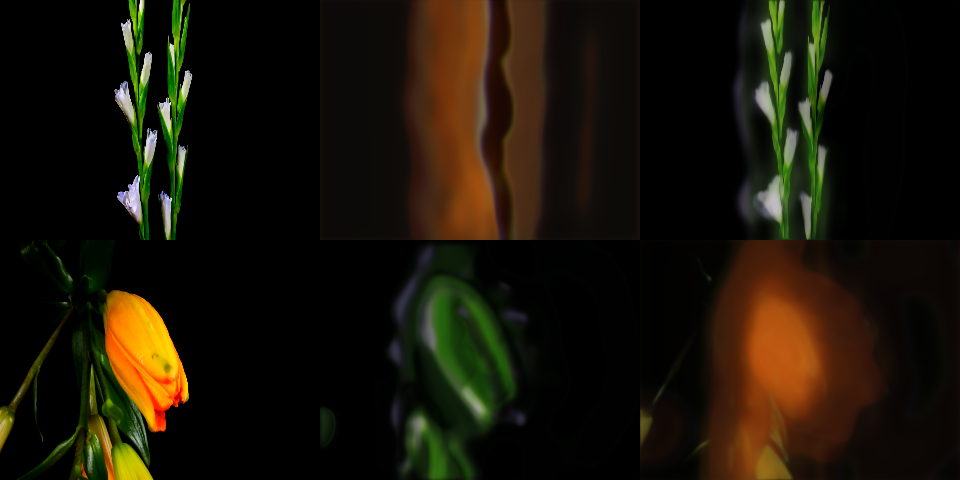
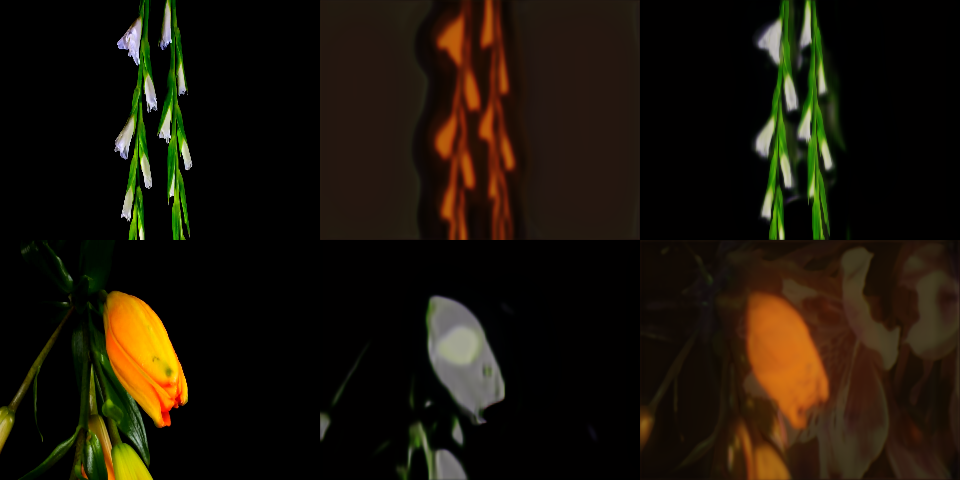
revise the issue that the gradient cannot propogate to the previous generator, and obtain the successful result in the simple example

diff --git a/lib/model/recycle_gan.py b/lib/model/recycle_gan.py
@@ -223,27 +223,34 @@ class ReCycleGAN(nn.Module):
         self.loss_D = 0.0
         self.loss_G = 0.0
 
-        # Generate fake_tuple in opposite domain
-        fake_b_frame_list = []
-        fake_a_frame_list = []
-        for i in range(self.T):
-            fake_b_frame_list.append(self.G_A_to_B(true_a_frame_list[i]))
-            fake_a_frame_list.append(self.G_B_to_A(true_b_frame_list[i]))
-
-        # ==================== Accumulate loss by each time step ====================
+        # ==================== Accumulate loss by each time step ====================================
+        # In the previous version, the fake frame in T time sequence will compute first,
+        # Furthermore, in order to utilize the tensor time by time, the new tensor object is created
+        # However, this coding idea cannot propogate the gradient into the previous generator
+        # As the result, we generate the fake image time by time!
+        # ===========================================================================================
         for i in range(self.t, self.T):
 
-            # generator and predictor
-            true_a_tuple = torch.cat(true_a_frame_list[i - self.t: i], dim = 1).detach()
-            fake_b_tuple = torch.cat(fake_b_frame_list[i - self.t: i], dim = 1).detach()
-            true_b_tuple = torch.cat(true_b_frame_list[i - self.t: i], dim = 1).detach()
-            fake_a_tuple = torch.cat(fake_a_frame_list[i - self.t: i], dim = 1).detach()
+            # Generate fake frames in opposite domain for single time step
+            fake_b_frame_list = []
+            fake_a_frame_list = []
+            for j in range(self.t + 1): # include the current frame
+                fake_b_frame_list.append(self.G_A_to_B(true_a_frame_list[i + j - self.t]))
+                fake_a_frame_list.append(self.G_B_to_A(true_b_frame_list[i + j - self.t]))
+
+            # Form the tuple object
+            true_a_tuple = torch.cat(true_a_frame_list[i - self.t: i], dim = 1)
+            true_b_tuple = torch.cat(true_b_frame_list[i - self.t: i], dim = 1)
+            fake_a_tuple = torch.cat(fake_a_frame_list[:-1], dim = 1) # exclude the current frame
+            fake_b_tuple = torch.cat(fake_b_frame_list[:-1], dim = 1) # exclude the current frame
+
+            # Accumulate the loss of generator and predictor
             self.loss_G += self.updateGenerator(true_a_tuple, fake_b_tuple, true_a_frame_list[i], true_b_frame_list[i], self.P_A, self.P_B, self.G_B_to_A, self.D_B)
             self.loss_G += self.updateGenerator(true_b_tuple, fake_a_tuple, true_b_frame_list[i], true_a_frame_list[i], self.P_B, self.P_A, self.G_A_to_B, self.D_A)
 
-            # discriminator
-            alter_fake_b = self.fake_b_buffer.push_and_pop(fake_b_frame_list[i])
-            alter_fake_a = self.fake_a_buffer.push_and_pop(fake_a_frame_list[i])            
+            # Accumulate the loss of discriminator
+            alter_fake_b = self.fake_b_buffer.push_and_pop(fake_b_frame_list[-1])
+            alter_fake_a = self.fake_a_buffer.push_and_pop(fake_a_frame_list[-1])            
             self.loss_D += self.updateDiscriminator(alter_fake_b, true_b_frame_list[i], self.D_B)
             self.loss_D += self.updateDiscriminator(alter_fake_a, true_a_frame_list[i], self.D_A)
 
